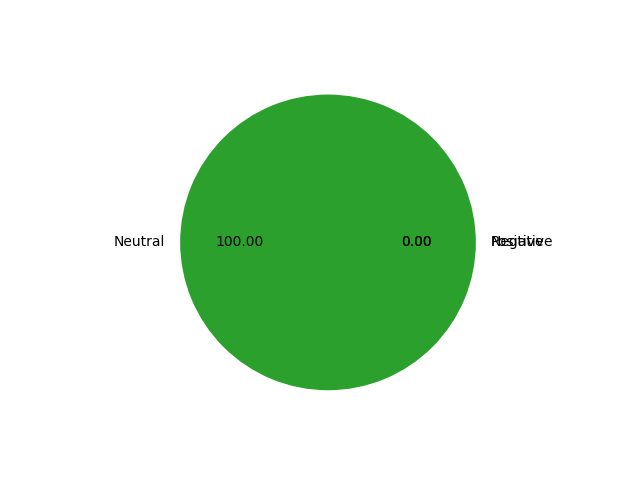
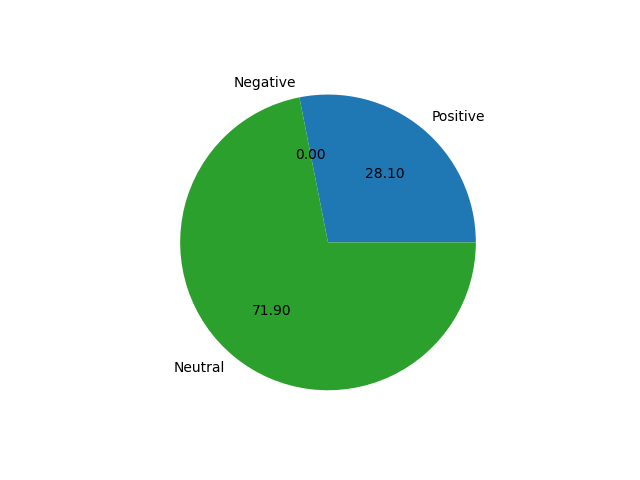
passed through text sentiment analysis model

diff --git a/redditAnalysis.py b/redditAnalysis.py
@@ -1,4 +1,16 @@
 import praw 
+import string
+import nltk
+from collections import Counter
+from nltk.tokenize import word_tokenize
+from nltk.corpus import stopwords
+import matplotlib.pyplot as plt
+from nltk.sentiment.vader import SentimentIntensityAnalyzer
+
+nltk.download('punkt') #to tokenize 
+nltk.download('stopwords') #to remove stopwords
+nltk.download('vader_lexicon')
+ 
 user_agent = "https://github.com/apoorvapendse";
 reddit = praw.Reddit(
     client_id="axhrfHILsS7sSnVWeP4CVA",
@@ -11,7 +23,72 @@ redditPosts = [];
 headlines = set()
 for submission in reddit.subreddit("politics").hot(limit=10):
     
-    redditPosts.append({submission.title,submission.upvote_ratio})
+    redditPosts.append([submission.title])
+
+text = ''
 
 for post in redditPosts:
-    print(post);
+    text = text + post[0]    
+
+lower_case = text.lower()
+
+#remove all punctuations
+cleaned_text = lower_case.translate(str.maketrans('','',string.punctuation))
+
+#split the sentence into words that are then stored in a list
+tokenized_words = word_tokenize(cleaned_text,"english")
+
+#final words is a list of words that do not contain stop words
+final_words=[]
+for word in tokenized_words:
+  if word not in stopwords.words('english'):
+    final_words.append(word)
+
+emotion_list=[]
+
+#we are using with statement so that we dont have to close the file once opened
+with open('emotions.txt','r') as file:
+  for line in file:
+    
+    #replacing the new line in between 2 lines with nothing, replacing commas with nothing, replacing         apostrophe('') with nothing
+    clear_line = line.replace("\n",'').replace(",",'').replace("'",'').strip()
+
+    #word and emotion are 2 variables where the word and the emotion from respective line is stored
+    word, emotion = clear_line.split(':')
+
+    if word in final_words:
+      emotion_list.append(emotion)
+
+
+#Counter using collections library(to count emotions)
+w=Counter(emotion_list)
+
+def sentiment_analyse(sentiment_text):
+  score = SentimentIntensityAnalyzer().polarity_scores(sentiment_text)
+  neg = score['neg']
+  pos = score['pos']
+  if neg > pos:
+    print("Negative sentiment")
+  elif pos>neg:
+    print("Positive sentiment")
+  else:
+    print("Neutral sentiment")    
+
+sentiment_analyse(cleaned_text)
+
+
+#making a subplot
+fig,ax1=plt.subplots()
+
+#bar graph generation with keys(emotions) on x axis and values(count) on y axis
+ax1.bar(w.keys(),w.values())
+
+#slanting emotions below x axis
+fig.autofmt_xdate()
+
+#save to graph.png file
+plt.savefig('graph.png')
+
+#show graph on screen
+plt.show()
+
